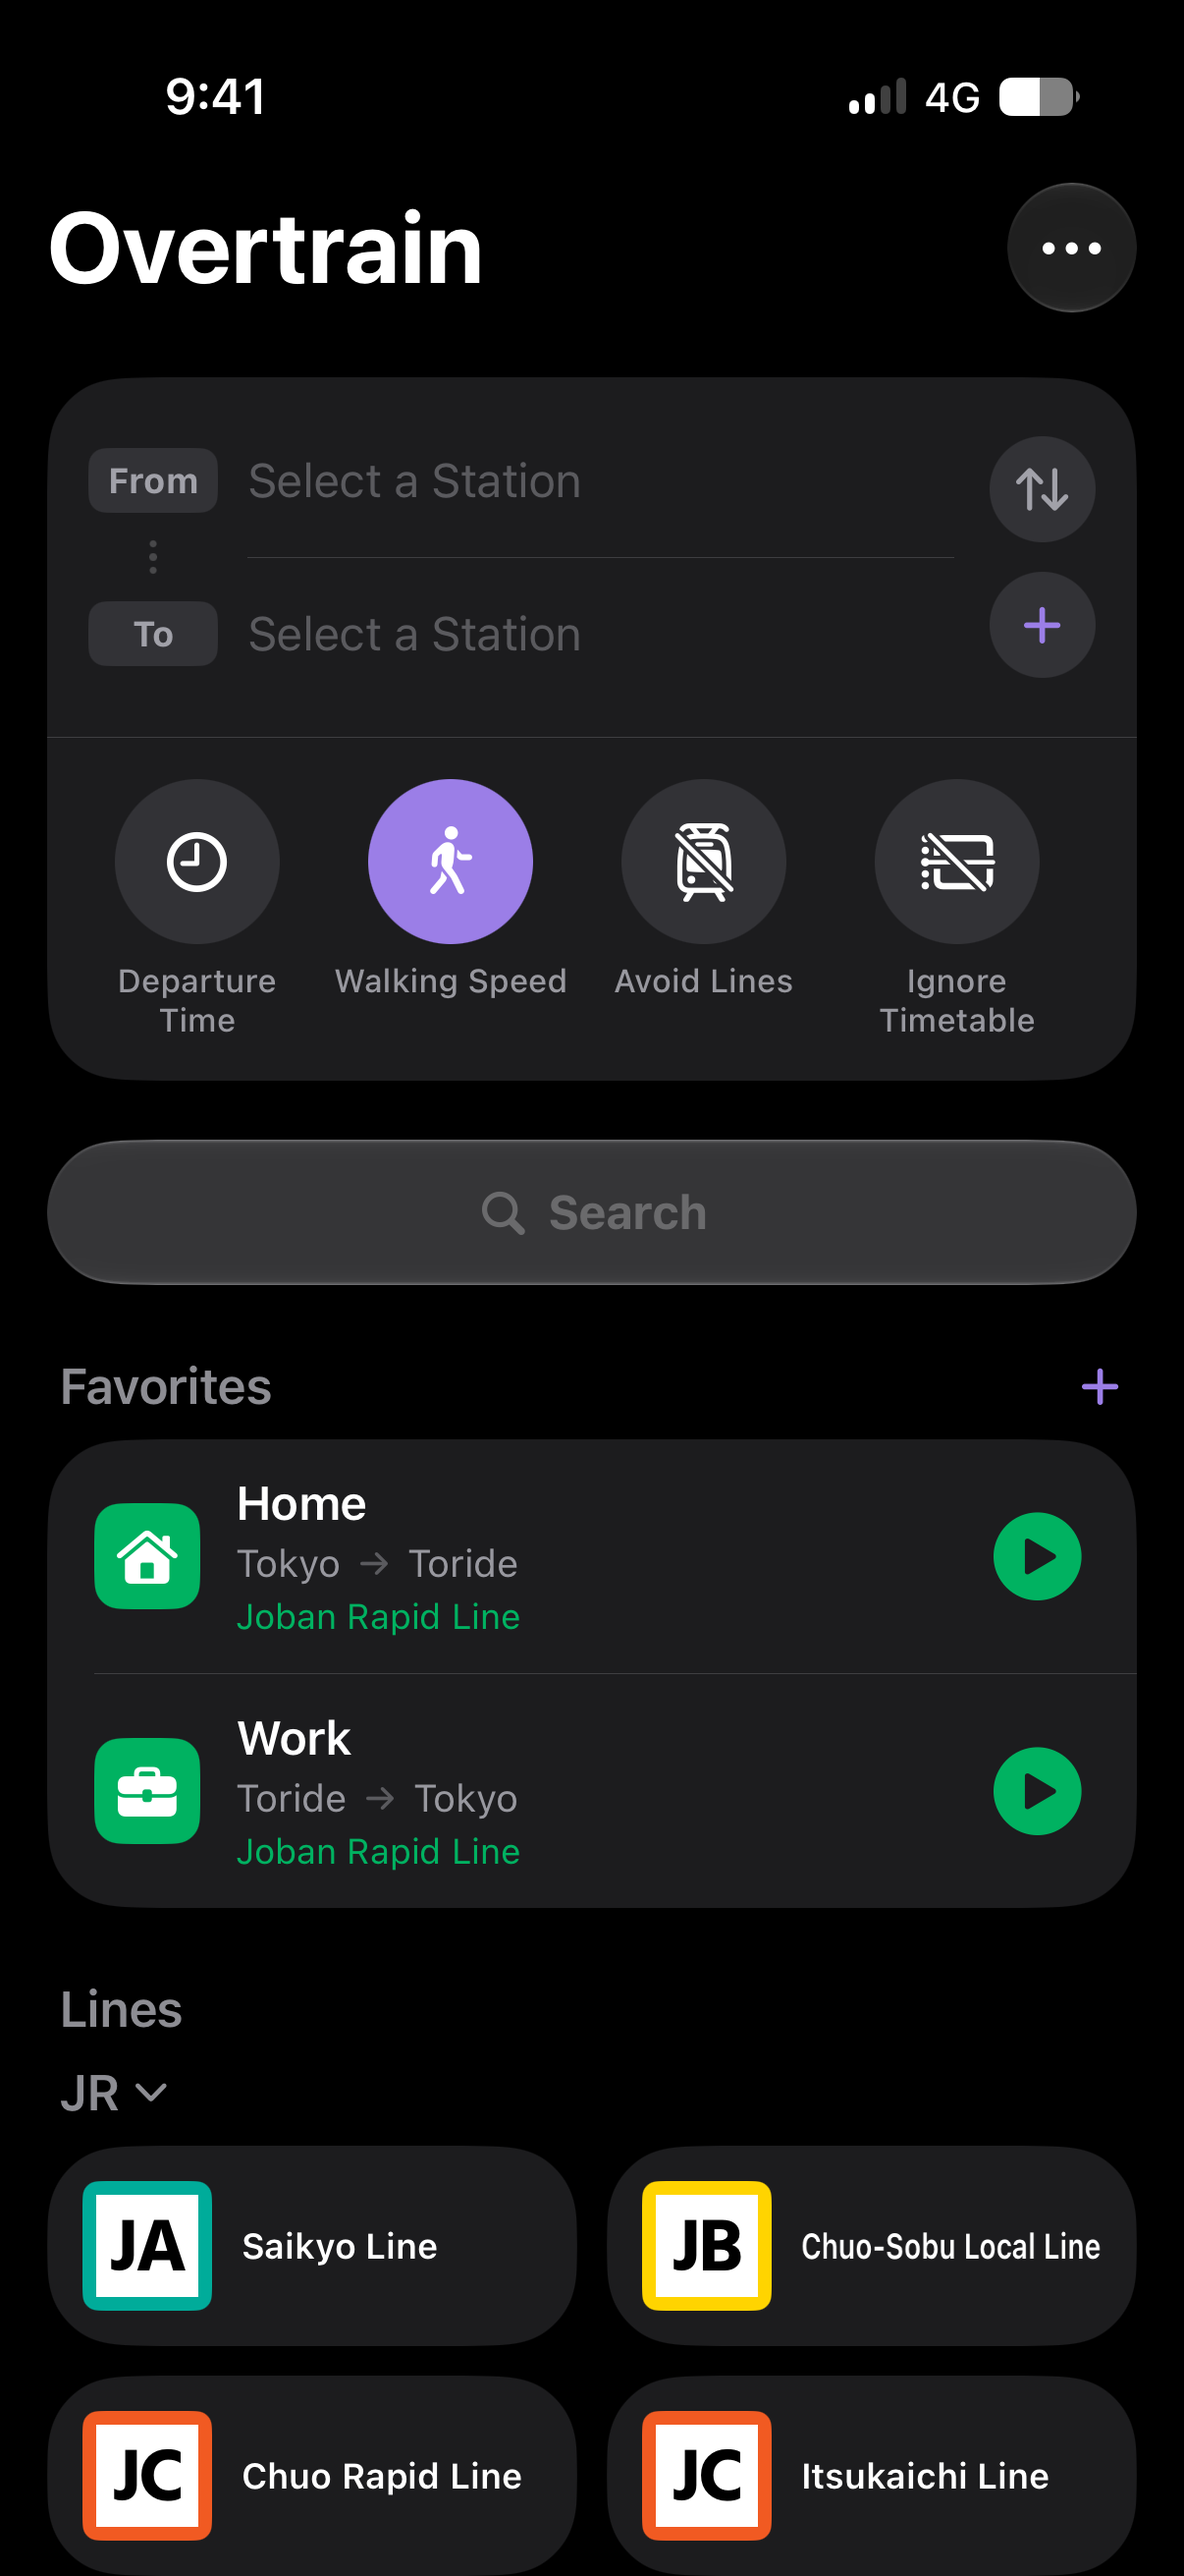
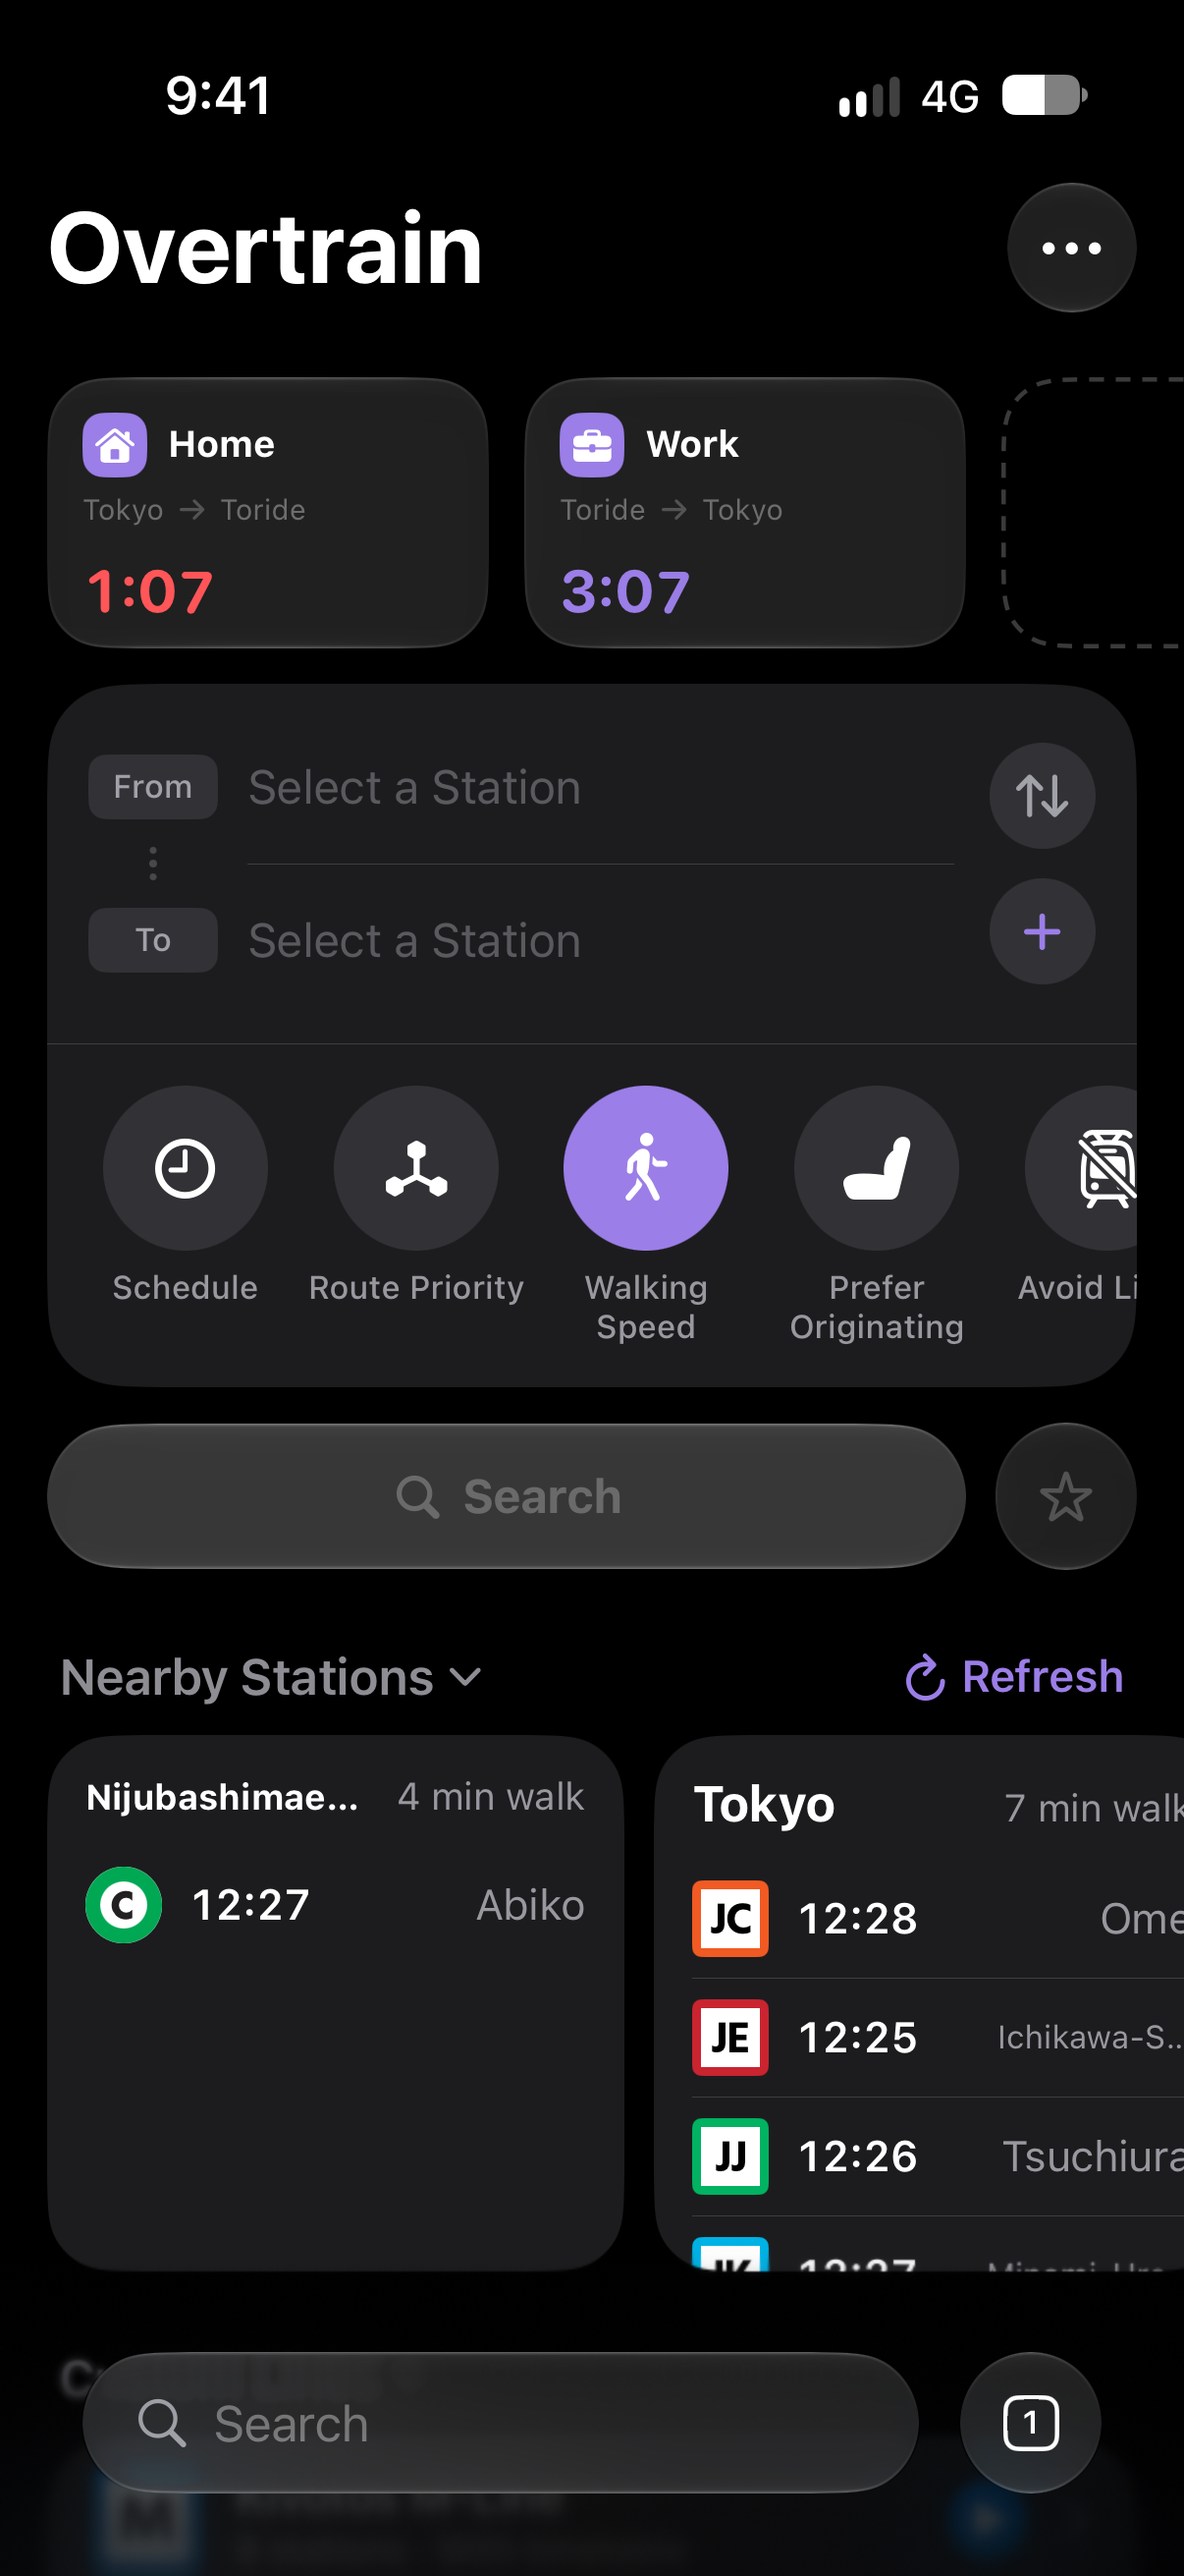
Update App Store screenshots with tabs

diff --git a/Assets/App Store/compose.swift b/Assets/App Store/compose.swift
@@ -37,8 +37,23 @@ func color(_ hex: UInt32) -> NSColor {
 
 let screenshots: [Screenshot] = [
     Screenshot(
+        rawName: "00-tabs",
+        outName: "01-tabs",
+        copy: [
+            "ja": Copy(
+                header: "タブに対応",
+                caption: "いくつもの乗車を、かんたんに同時スタート"
+            ),
+            "en": Copy(
+                header: "Now with tabs",
+                caption: "Start multiple journeys with ease"
+            ),
+        ],
+        gradientTop: color(0x3D2470), gradientBottom: color(0x100A22)
+    ),
+    Screenshot(
         rawName: "02-planner",
-        outName: "01-planner",
+        outName: "02-planner",
         copy: [
             "ja": Copy(
                 header: "オフラインで動く時刻表",
@@ -53,7 +68,7 @@ let screenshots: [Screenshot] = [
     ),
     Screenshot(
         rawName: "03-journey",
-        outName: "02-journey",
+        outName: "03-journey",
         copy: [
             "ja": Copy(
                 header: "いま、どこを走ってる？",
@@ -68,7 +83,7 @@ let screenshots: [Screenshot] = [
     ),
     Screenshot(
         rawName: "05-lcd-yamanote",
-        outName: "03-lcd-yamanote",
+        outName: "04-lcd-yamanote",
         copy: [
             "ja": Copy(
                 header: "車内ディスプレイを再現",
@@ -83,7 +98,7 @@ let screenshots: [Screenshot] = [
     ),
     Screenshot(
         rawName: "04-lcd-metro",
-        outName: "04-lcd-metro",
+        outName: "05-lcd-metro",
         copy: [
             "ja": Copy(
                 header: "地下鉄でも、そのまま",
@@ -98,7 +113,7 @@ let screenshots: [Screenshot] = [
     ),
     Screenshot(
         rawName: "06-timetable",
-        outName: "05-timetable",
+        outName: "06-timetable",
         copy: [
             "ja": Copy(
                 header: "駅の時刻表も内蔵",
@@ -113,7 +128,7 @@ let screenshots: [Screenshot] = [
     ),
     Screenshot(
         rawName: "07-avoid",
-        outName: "06-customize",
+        outName: "07-customize",
         copy: [
             "ja": Copy(
                 header: "苦手な路線は避ける",
@@ -128,7 +143,7 @@ let screenshots: [Screenshot] = [
     ),
     Screenshot(
         rawName: "08-customline",
-        outName: "07-mylines",
+        outName: "08-mylines",
         copy: [
             "ja": Copy(
                 header: "マイ路線を作ろう",
@@ -143,7 +158,7 @@ let screenshots: [Screenshot] = [
     ),
     Screenshot(
         rawName: "01-home",
-        outName: "08-favorites",
+        outName: "09-favorites",
         copy: [
             "ja": Copy(
                 header: "お気に入りからワンタップ",
@@ -206,6 +221,21 @@ func drawLine(
         withAttributes: attrs
     )
     return lineSize.height
+}
+
+/// Vertical extent of the inked pixels, in AppKit coordinates.
+func inkRange(of bitmap: NSBitmapImageRep) -> ClosedRange<CGFloat>? {
+    var rows: [Int] = []
+    for y in 0..<bitmap.pixelsHigh {
+        for x in stride(from: 0, to: bitmap.pixelsWide, by: 2)
+        where (bitmap.colorAt(x: x, y: y)?.alphaComponent ?? 0) > 0.5 {
+            rows.append(y)
+            break
+        }
+    }
+    guard let first = rows.first, let last = rows.last else { return nil }
+    // Bitmap rows run top-down.
+    return CGFloat(bitmap.pixelsHigh - 1 - last)...CGFloat(bitmap.pixelsHigh - first)
 }
 
 // MARK: - Device frame
@@ -271,7 +301,16 @@ func compose(_ shot: Screenshot, language: String) -> Bool {
     NSGradient(starting: shot.gradientTop, ending: shot.gradientBottom)?
         .draw(in: NSRect(origin: .zero, size: canvasSize), angle: -90)
 
-    // One-line header and caption. AppKit's origin is bottom-left.
+    // One-line header and caption, drawn apart so their ink can be centered.
+    // AppKit's origin is bottom-left.
+    let text = NSBitmapImageRep(
+        bitmapDataPlanes: nil,
+        pixelsWide: Int(canvasSize.width), pixelsHigh: Int(canvasSize.height),
+        bitsPerSample: 8, samplesPerPixel: 4, hasAlpha: true, isPlanar: false,
+        colorSpaceName: .calibratedRGB, bytesPerRow: 0, bitsPerPixel: 0
+    )!
+    NSGraphicsContext.saveGraphicsState()
+    NSGraphicsContext.current = NSGraphicsContext(bitmapImageRep: text)
     let textWidth = canvasSize.width - 96
     let headerTop = canvasSize.height - 84
     let headerHeight = drawLine(
@@ -283,6 +322,7 @@ func compose(_ shot: Screenshot, language: String) -> Bool {
         copy.caption, fontName: "Hind-Medium", size: 46, fallbackWeight: .medium,
         color: .white, top: captionTop, maxWidth: textWidth
     )
+    NSGraphicsContext.restoreGraphicsState()
 
     // Device: hardware frame below, display-masked capture above.
     let textBottom = captionTop - captionHeight
@@ -301,6 +341,16 @@ func compose(_ shot: Screenshot, language: String) -> Bool {
         width: deviceSize.width,
         height: deviceSize.height
     )
+
+    // The text's ink sits centered between the top edge and the device.
+    if let ink = inkRange(of: text) {
+        let offset = ((canvasSize.height + deviceRect.maxY) / 2 - (ink.lowerBound + ink.upperBound) / 2).rounded()
+        text.draw(
+            in: NSRect(origin: NSPoint(x: 0, y: offset), size: canvasSize),
+            from: .zero, operation: .sourceOver, fraction: 1,
+            respectFlipped: false, hints: nil
+        )
+    }
 
     NSGraphicsContext.current?.saveGraphicsState()
     let shadow = NSShadow()

diff --git a/Assets/App Store/capture.swift b/Assets/App Store/capture.swift
@@ -6,7 +6,7 @@
 
 import Foundation
 
-let udid = "571BCB64-DC54-4C4A-8985-E076E8E4EE08"  // "iPhone 4" (iPhone 17 Pro, iOS 27)
+let udid = "64D036E5-CA5A-4B70-BADC-B55A652F92D7"  // "App Store Screenshots" (iPhone 17 Pro, iOS 27)
 let bundleId = "com.tsubuzaki.Overhead"
 let scriptDir = URL(fileURLWithPath: CommandLine.arguments[0]).deletingLastPathComponent()
 let language = CommandLine.arguments.count > 2 ? CommandLine.arguments[2] : "ja"
@@ -33,7 +33,9 @@ func launchApp(urls: [String] = []) {
     sleep(2)
     xcrun(["simctl", "launch", udid, bundleId,
            "-hasDismissedStartupNotice", "YES",
-           "-AppleLanguages", "(\(language))"] + urls)
+           "-AppleLanguages", "(\(language))",
+           // Holds the LCDs on the capture's language instead of alternating.
+           "-journey.lcdLanguages", language] + urls)
     sleep(5)
 }
 
@@ -45,8 +47,20 @@ struct Shot {
 }
 
 let shots: [Shot] = [
-    Shot(name: "01-home", urls: [], waitSeconds: 2),
-    Shot(name: "02-planner", urls: ["overtrain://planner?action=search"], waitSeconds: 6),
+    Shot(name: "00-tabs", urls: [
+        "overtrain://lcd?style=joban",
+        "overtrain://journey?minutesAgo=55",
+        "overtrain://tab/new",
+        "overtrain://lcd?style=yamanote",
+        "overtrain://journey?minutesAgo=20&line=Railway:JR-East.Yamanote&from=Station:JR-East.Yamanote.Ikebukuro&to=Station:JR-East.Yamanote.Akihabara",
+        "overtrain://tab/new",
+        "overtrain://lcd?style=tokyoMetro",
+        "overtrain://journey?minutesAgo=40&line=Railway:TokyoMetro.Tozai&from=Station:TokyoMetro.Tozai.Nakano&to=Station:TokyoMetro.Tozai.NishiFunabashi",
+        "overtrain://tab/new",
+        "overtrain://tab/switcher",
+    ], waitSeconds: 30),
+    Shot(name: "01-home", urls: [], waitSeconds: 5),
+    Shot(name: "02-planner", urls: ["overtrain://planner?action=search"], waitSeconds: 10),
     Shot(name: "03-journey", urls: [
         "overtrain://lcd?style=joban",
         "overtrain://journey?minutesAgo=55",
@@ -100,8 +114,9 @@ launchApp(urls: ["overtrain://reset", "overtrain://seed/favorites", "overtrain:/
 
 // Extra arguments past the app path and language select a subset of shots.
 let onlyNames = Set(CommandLine.arguments.dropFirst(3))
+// Tabs and their journeys persist across launches, so each shot starts from a reset.
 for shot in shots where onlyNames.isEmpty || onlyNames.contains(shot.name) {
-    launchApp(urls: shot.urls)
+    launchApp(urls: ["overtrain://reset"] + shot.urls)
     sleep(shot.waitSeconds)
     let file = rawDir.appendingPathComponent("\(shot.name).png").path
     let capture = xcrun(["simctl", "io", udid, "screenshot", file])
